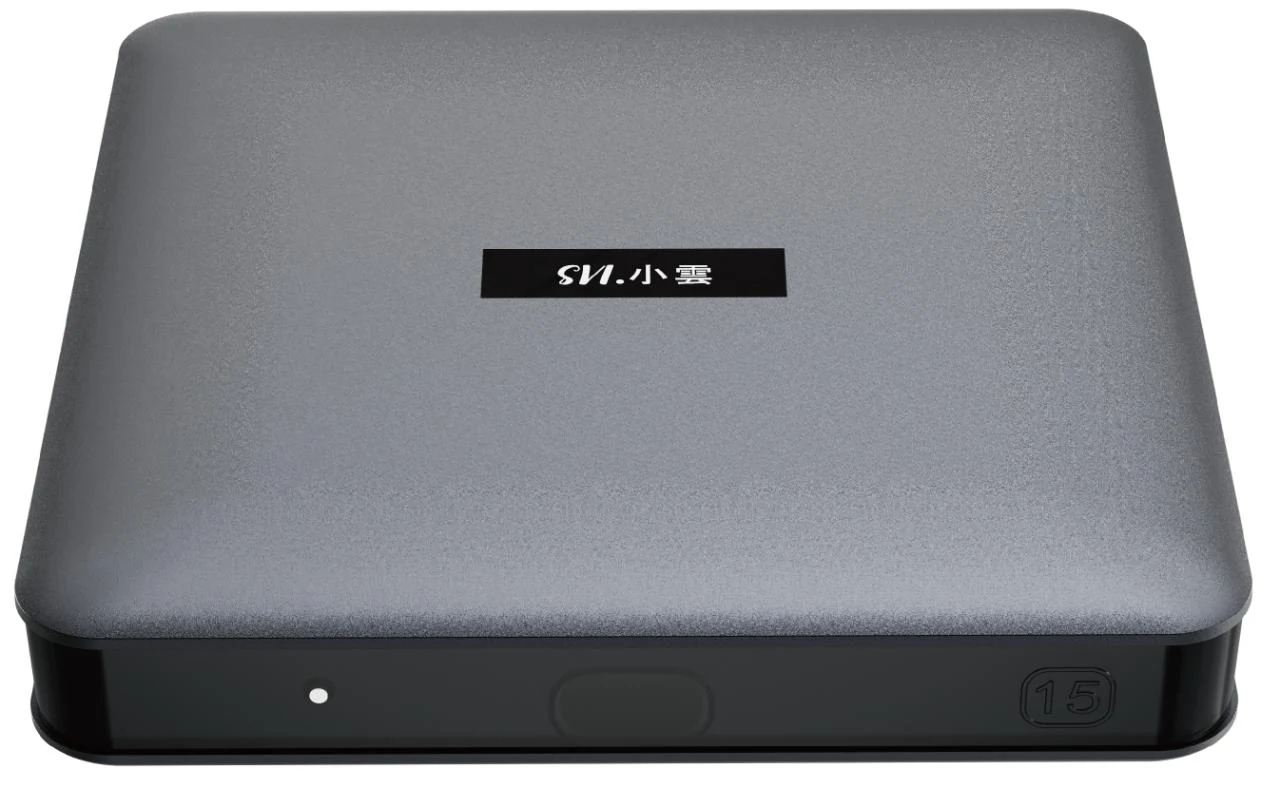
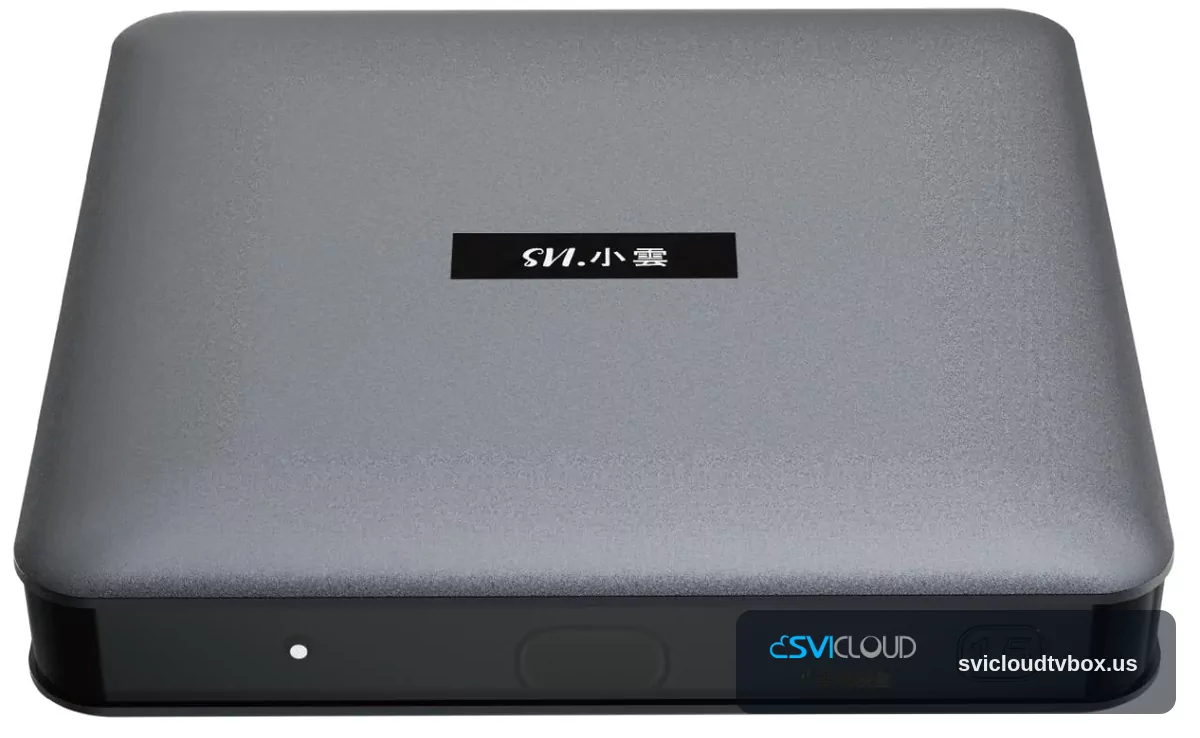
fix(theme): watermark all 15p delivery surfaces

Changed region(s): [[0.5858, 0.8103, 0.9867, 0.9661]]

diff --git a/theme/svicloudtvbox-lumen/page-compare.php b/theme/svicloudtvbox-lumen/page-compare.php
@@ -172,7 +172,7 @@ $compare_card_10p_image_html = str_replace('loading="lazy"', 'loading="eager"', 
 $compare_card_10s_image_html = str_replace('loading="lazy"', 'loading="eager"', $compare_card_10s_image_html);
 
 if ($compare_card_15p_image_html === '') {
-    $compare_card_15p_image_html = '<img src="' . esc_url(svic_theme_image_uri('/assets/images/products/svicloud-15p-front.webp')) . '" alt="' . svic_translate_attr('compare.aria.product_alt_15p') . '" loading="eager" decoding="async" />';
+    $compare_card_15p_image_html = '<img src="' . esc_url(svic_theme_image_uri('/assets/images/products/svicloud-15p-primary-ai-watermarked.webp')) . '" alt="' . svic_translate_attr('compare.aria.product_alt_15p') . '" loading="eager" decoding="async" />';
 }
 
 if ($compare_card_10p_image_html === '') {
@@ -246,7 +246,7 @@ $compare_cards = [
 
 $compare_hero_15p_image = function_exists('svic_get_product_image_meta')
     ? svic_get_product_image_meta($hero_product_15p, 0, 'large')
-    : svic_get_theme_image_meta('/assets/images/products/svicloud-15p-front.webp');
+    : svic_get_theme_image_meta('/assets/images/products/svicloud-15p-primary-ai-watermarked.webp');
 $compare_hero_10p_image = function_exists('svic_get_product_image_meta')
     ? svic_get_product_image_meta($hero_product_10p, 0, 'large')
     : svic_get_theme_image_meta('/assets/images/svicloud-hero-product.webp');
@@ -310,7 +310,7 @@ if (!empty($compare_hero_10s_background['url'])) {
         <div class="compare-hero__devices" aria-hidden="true">
           <img
             class="compare-hero__device compare-hero__device--15p"
-            src="<?php echo esc_url($compare_hero_15p_image['url'] ?? svic_theme_image_uri('/assets/images/products/svicloud-15p-front.webp')); ?>"
+            src="<?php echo esc_url($compare_hero_15p_image['url'] ?? svic_theme_image_uri('/assets/images/products/svicloud-15p-primary-ai-watermarked.webp')); ?>"
             alt=""
             loading="eager"
             decoding="async"

diff --git a/theme/svicloudtvbox-lumen/functions.php b/theme/svicloudtvbox-lumen/functions.php
@@ -11,6 +11,24 @@ if (!defined('SVIC_THEME_TEXT_DOMAIN')) {
     define('SVIC_THEME_TEXT_DOMAIN', 'svicloudtvbox-lumen');
 }
 
+if (!function_exists('svic_redirect_legacy_wp_sitemap')) {
+    function svic_redirect_legacy_wp_sitemap(): void {
+        if (!defined('RANK_MATH_VERSION')) {
+            return;
+        }
+
+        $request_path = wp_parse_url((string) ($_SERVER['REQUEST_URI'] ?? ''), PHP_URL_PATH);
+        if ($request_path !== '/wp-sitemap.xml') {
+            return;
+        }
+
+        wp_safe_redirect(home_url('/sitemap_index.xml'), 301, 'SVIC active Rank Math sitemap');
+        exit;
+    }
+
+    add_action('template_redirect', 'svic_redirect_legacy_wp_sitemap', 1);
+}
+
 /**
  * Announcement bar toggle.
  * Set to true to show the out-of-stock (or any) banner across all pages.
@@ -934,7 +952,7 @@ if (!function_exists('svic_static_page_meta_registry')) {
                     'zh' => '比較 US$288 缺貨訂購的小雲 15P（原價 US$379）與 10P+、10S 的硬體、影音支援、價格及銷售狀態。',
                     'zh-cn' => '比较 US$288 缺货订购的小云 15P（原价 US$379）与 10P+、10S 的硬件、影音支持、价格及销售状态。',
                 ],
-                'image'       => '/assets/images/products/svicloud-15p-front.webp',
+                'image'       => '/assets/images/products/svicloud-15p-primary-ai-watermarked.webp',
                 'image_alt'   => [
                     'en' => 'SVICLOUD 15P TV box front view',
                     'zh' => '小雲 15P 電視盒正面',

diff --git a/theme/svicloudtvbox-lumen/woocommerce/single-product.php b/theme/svicloudtvbox-lumen/woocommerce/single-product.php
@@ -81,7 +81,7 @@ while (have_posts()) :
     } elseif (!empty($gallery_entries)) {
         $primary_image_html = '<img class="product-hero-image" src="' . esc_url($gallery_entries[0]['full']) . '" alt="' . esc_attr(get_the_title()) . '" loading="lazy" />';
     } elseif ($is_15p_product) {
-        $primary_image_html = '<img class="product-hero-image" src="' . esc_url(svic_theme_image_uri('/assets/images/products/svicloud-15p-front.webp')) . '" alt="' . esc_attr($localized_product_title) . '" />';
+        $primary_image_html = '<img class="product-hero-image" src="' . esc_url(svic_theme_image_uri('/assets/images/products/svicloud-15p-primary-ai-watermarked.webp')) . '" alt="' . esc_attr($localized_product_title) . '" />';
     } else {
         $primary_image_html = '<img class="product-hero-image" src="' . esc_url(svic_theme_image_uri('/assets/images/svicloud-hero-product.webp')) . '" alt="' . esc_attr(get_the_title()) . '" />';
     }

diff --git a/docs/15p-source-traceability.md b/docs/15p-source-traceability.md
@@ -9,16 +9,16 @@ The 15P hardware and media content is derived from the two read-only source file
[2 lines of base64/hex data omitted]
 | Direct supplier confirmation relayed by site owner, 2026-08-17 | N/A | Confirms that the 15P includes the Kids and Karaoke apps. |
-| Site-owner commerce decision, 2026-08-17 | N/A | Sets U.S. regular price `$379.00`, sale price `$299.00`, and notified backorders; no shipping date was supplied. |
+| Site-owner commerce decision, 2026-08-17 | N/A | Sets U.S. regular price `$379.00`, sale price `$288.00`, and notified backorders; no shipping date was supplied. |
 
-Extraction used the official Anthropic `pdf` and `pptx` skills, PyMuPDF/PDFPlumber, OOXML inspection, and image hashing. The source files were not modified. The parent folder contained 89 media files (85 images and four MP4 videos), but none had an authoritative 15P identity; no image had an exact hash match with the PDF/PPTX assets. The complete parent-folder path/dimension/duration/size/hash/disposition inventory is inspectable in [`docs/15p-parent-media-inventory.md`](15p-parent-media-inventory.md), and all 27 embedded PPTX media parts—with slide mapping, hashes, content risks, and disposition—are listed in [`docs/15p-pptx-media-inventory.md`](15p-pptx-media-inventory.md). Therefore, the three claim-free 15P reference/gallery photos come from PDF page 1 and are stored under descriptive theme filenames; no parent-folder or flattened PPTX media is published. The Shop/pricing marketing creative is an AI-generated derivative grounded in the approved front and angled PDF photos, with layout inspiration from the existing 10P+ card artwork.
+Extraction used the official Anthropic `pdf` and `pptx` skills, PyMuPDF/PDFPlumber, OOXML inspection, and image hashing. The source files were not modified. The parent folder contained 89 media files (85 images and four MP4 videos), but none had an authoritative 15P identity; no image had an exact hash match with the PDF/PPTX assets. The complete parent-folder path/dimension/duration/size/hash/disposition inventory is inspectable in [`docs/15p-parent-media-inventory.md`](15p-parent-media-inventory.md), and all 27 embedded PPTX media parts—with slide mapping, hashes, content risks, and disposition—are listed in [`docs/15p-pptx-media-inventory.md`](15p-pptx-media-inventory.md). Therefore, five watermarked 15P gallery derivatives are delivered under descriptive theme filenames; no unwatermarked source image is delivered, and no unmodified flattened PPTX slide is published. The Shop/pricing marketing creative is an AI-generated derivative grounded in approved product references and carries the same watermark.
 
 ## Canonical product state
 
 - **Product:** SVICLOUD 15P TV Box / 小雲 15P 電視盒 / 小云 15P 电视盒.
 - **Slug:** `svicloud-15p`.
 - **Catalog state:** Published and catalog-visible.
-- **Commerce state:** Regular `$379.00`, sale/effective `$299.00`, managed zero stock, notified backorders allowed, and purchasable. Shipping date not announced.
+- **Commerce state:** Regular `$379.00`, sale/effective `$288.00`, managed zero stock, notified backorders allowed, and purchasable. Shipping date not announced.
 - **Claim boundary:** The PDF/PPTX do not state price, release timing, inventory, shipping, warranty, or returns. Price/backorder state is a site-owner business decision; no 15P-specific shipping-speed, delivery-date, or warranty claim is added.
 - **Primary positioning:** Android 14 TV box with Amlogic S905Y5, 4 GB DDR3 memory, 64 GB eMMC storage, dual-band Wi-Fi 6, Bluetooth 5.4, and 4K HDR/AV1 playback.
 
@@ -69,10 +69,13 @@ All output images are optimized WebP files; source PDF/PPTX files remain externa
 
 | Theme asset | Source | Purpose and alt text |
 |---|---|---|
-| `assets/images/products/svicloud-15p-marketing-v4.webp` | OpenAI Codex built-in `image_gen`, grounded by the approved PDF p.1 front/angled photos and using prior 10P+/15P artwork only as layout direction; exact prompts in `docs/15p-launch/15p-marketing-v4-prompt.md` | Homepage hero, Shop card, homepage pricing card, and Shop social metadata. Alt: `SVICLOUD 15P Android 14 feature graphic`. |
-| `assets/images/products/svicloud-15p-front.webp` | PDF p.1 embedded front product photo | WooCommerce primary image, Compare, PDP, product metadata, and identity reference for generated artwork. Alt: `SVICLOUD 15P TV box front view`. |
-| `assets/images/products/svicloud-15p-angle.webp` | PDF p.1 embedded angled product photo | PDP gallery. Alt: `SVICLOUD 15P TV box angled view showing rear ports`. |
-| `assets/images/products/svicloud-15p-package.webp` | PDF p.1 embedded package-front artwork | PDP gallery. Alt: `SVICLOUD 15P packaging front`. |
+| `assets/images/products/svicloud-15p-marketing-v4.webp` | OpenAI Codex built-in `image_gen`, grounded by approved product references; exact prompts in `docs/15p-launch/15p-marketing-v4-prompt.md` | Watermarked homepage hero, Shop card, pricing card, and social metadata. Alt: `SVICLOUD 15P Android 14 feature graphic`. |
+| `assets/images/products/svicloud-15p-primary-ai-watermarked.webp` | Supplied screenshot-derived AI primary image | Watermarked primary/front image and product metadata. Alt: `SVICLOUD 15P TV Box front view with watermark`. |
+| `assets/images/products/svicloud-15p-front.webp` | PDF p.1 embedded front product photo, watermark derivative | Watermarked fallback/identity image. Alt: `SVICLOUD 15P TV box front view`. |
+| `assets/images/products/svicloud-15p-angle.webp` | PDF p.1 embedded angled product photo, watermark derivative | Watermarked gallery/fallback image. Alt: `SVICLOUD 15P TV box angled view showing rear ports`. |
+| `assets/images/products/svicloud-15p-package.webp` | PDF p.1 embedded package-front artwork, watermark derivative | Watermarked gallery image. Alt: `SVICLOUD 15P packaging front`. |
+| `assets/images/products/svicloud-15p-lifestyle-ai-watermarked.webp` | Cropped approved AI marketing reference | Watermarked lifestyle/AI gallery image. |
+| `assets/images/products/svicloud-15p-lifestyle-ai-2-watermarked.webp` | Cropped approved AI lifestyle reference | Watermarked lifestyle/AI gallery image. |
 
 ## Localized content contract
 
@@ -83,7 +86,7 @@ All output images are optimized WebP files; source PDF/PPTX files remain externa
 - **Lead:** SVICLOUD 15P runs Android 14 on an Amlogic S905Y5 processor with 4 GB DDR3 memory, 64 GB eMMC storage, dual-band Wi-Fi 6, Bluetooth 5.4, and 4K HDR playback.
 - **Feature labels:** `Amlogic S905Y5 + Android 14`; `4 GB DDR3 + 64 GB eMMC`; `Wi-Fi 6 + Bluetooth 5.4`; `4K HDR + AV1 decoding`.
 - **CTA:** Backorder 15P
-- **Availability:** `$299.00` sale / `$379.00` regular; shipping date not announced.
+- **Availability:** `$288.00` sale / `$379.00` regular; shipping date not announced.
 
 ### Traditional Chinese
 
@@ -92,7 +95,7 @@ All output images are optimized WebP files; source PDF/PPTX files remain externa
 - **Lead:** 全新小雲 15P 搭載 Android 14、Amlogic S905Y5 處理器、4 GB DDR3 記憶體、64 GB eMMC 儲存空間、雙頻 Wi-Fi 6、藍牙 5.4 與 4K HDR 播放。
 - **Feature labels:** `Amlogic S905Y5 + Android 14`; `4 GB DDR3 + 64 GB eMMC`; `Wi-Fi 6 + 藍牙 5.4`; `4K HDR + AV1 解碼`.
 - **CTA:** 缺貨訂購 15P
-- **Availability:** 特價 `US$299` / 原價 `US$379`；出貨日期尚未公布。
+- **Availability:** 特價 `US$288` / 原價 `US$379`；出貨日期尚未公布。
 
 ### Simplified Chinese
 
@@ -101,7 +104,7 @@ All output images are optimized WebP files; source PDF/PPTX files remain externa
 - **Lead:** 全新小云 15P 搭载 Android 14、Amlogic S905Y5 处理器、4 GB DDR3 内存、64 GB eMMC 存储空间、双频 Wi-Fi 6、蓝牙 5.4 与 4K HDR 播放。
 - **Feature labels:** `Amlogic S905Y5 + Android 14`; `4 GB DDR3 + 64 GB eMMC`; `Wi-Fi 6 + 蓝牙 5.4`; `4K HDR + AV1 解码`.
 - **CTA:** 缺货订购 15P
-- **Availability:** 特价 `US$299` / 原价 `US$379`；发货日期尚未公布。
+- **Availability:** 特价 `US$288` / 原价 `US$379`；发货日期尚未公布。
 
 ## Rendered-copy map
 
@@ -120,7 +123,7 @@ Labels such as `Confirmed platform`, `Core specifications`, and `At a glance` or
 
 ## Implementation guardrails
 
-1. A local fixture refresh must recreate the supplemental 15P product with regular `379`, sale/effective `299`, managed quantity `0`, backorders `notify`, stock status `onbackorder`, and three source/gallery images.
+1. A local fixture refresh must recreate the supplemental 15P product with regular `379`, sale/effective `288`, managed quantity `0`, backorders `notify`, stock status `onbackorder`, and five watermarked source/gallery images.
 2. Homepage, Shop, Compare, PDP, cart/checkout, metadata, and Product/Offer JSON-LD must agree on the price and BackOrder state.
 3. Normal checkout/payment/shipping-rate/cancellation/return behavior applies, but no 15P-specific shipping speed, dispatch date, delivery date, or warranty promise may be added.
 4. “Coming Soon” remains only inside approved v4 artwork; surrounding UI uses localized Backorder action/status/date-disclaimer copy.

diff --git a/docs/15p-launch/production-gallery-price-update-evidence.md b/docs/15p-launch/production-gallery-price-update-evidence.md
@@ -1,0 +1,41 @@
+# Production 15P gallery and pricing update evidence
+
+Status: corrected retry deployed after the explicit approval below.
+
+## Approval checkpoint
+
+User approval recorded in the goal session:
+
+> I approve the production gallery and $288 pricing update.
+
+The approval covered the five-image watermarked gallery, screenshot-derived AI primary image, `$379` regular / `$288` sale pricing, production verification, and rollback on critical failure.
+
+## Release history
+
+- Preflight commit: `51fb067a11ca455856e674d8cb39fdf9d3757007`
+- Corrected theme commit: `afa372c85d73eb7463dc2eb2b446e4f76e09407f`
+- Final repository commit: `ea3d5b7da51d4aae1a2fb354809e3ba94a6bf0ca`
+- Initial retry failed the social-image gate; product/media/theme rollback completed. Evidence: external Pi backup `rollback-evidence.md`.
+- Corrected retry added explicit 15P social-image metadata and deployed the fully watermarked fallback assets.
+
+## Live state
+
+- Product ID: `1204`, slug `svicloud-15p`
+- State: published, visible, purchasable, regular `$379`, sale/effective `$288`, managed stock `0`, `notify`, `onbackorder`
+- Gallery IDs: `1210`, `1211`, `1212`, `1213`, `1214`
+- Gallery order: screenshot-derived AI primary, angle/rear ports, packaging, AI lifestyle, second AI lifestyle
+- All five production image response bodies match committed local watermarked WebP hashes.
+- Theme remote verification: `212/212` files match.
+
+## Verification
+
+- Production critical localized flows: Chromium/WebKit × Traditional Chinese/Simplified Chinese, 4/4 passed.
+- Production English flows: Chromium/WebKit PDP → add-to-cart → cart → checkout, 2/2 passed.
+- Storefront audit: 36/36 route/viewport checks passed.
+- SEO audit: 24 pages, 77 internal links, 0 issues.
+- Product schema: one `$288.00 USD` BackOrder offer, no delivery-time promise.
+- Social metadata: one unique `og:image` and one unique `twitter:image`, both watermarked primary image.
+- Active sitemap: `/sitemap_index.xml` and all four children HTTP 200; `/wp-sitemap.xml` resolves to the active Rank Math sitemap rather than the homepage.
+- No production offline-verifier orders/customers; no unrelated/private data or infrastructure writes.
+
+The pre-update DB/uploads/remote-theme backups and rollback procedure remain external and hash-verified. No DB/uploads restoration was performed.

diff --git a/docs/15p-pptx-media-inventory.md b/docs/15p-pptx-media-inventory.md
@@ -1,11 +1,11 @@
 # 15P PPTX embedded-media inventory
 
-Inventory of every media part embedded in the read-only `15P PDF.pptx`. Dimensions, sizes, hashes, and slide relationships were extracted from OOXML without modifying the deck. All 27 parts are flattened marketing slides and are excluded from storefront media; only claim-free PDF page-1 photos are shipped.
+Inventory of every media part embedded in the read-only `15P PDF.pptx`. Dimensions, sizes, hashes, and slide relationships were extracted from OOXML without modifying the deck. All 27 original parts remain excluded from storefront media. One background-only crop derived from slide 2 is used as a watermarked lifestyle derivative after embedded marketing copy was removed; no unmodified flattened slide is shipped.
 
 | Embedded path | Slide | Dimensions | Size | SHA-256 | Content / disposition |
 |---|---:|---:|---:|---|---|
[6 lines of base64/hex data omitted]

diff --git a/docs/15p-launch/launch-plan-coverage.md b/docs/15p-launch/launch-plan-coverage.md
@@ -6,7 +6,7 @@
 | Approved commerce decision | `$379` regular / `$288` sale, notified backorders, and no shipping date recorded in source traceability and RPI spec |
 | Existing source-folder media inventory | `docs/15p-parent-media-inventory.md` (85 images + 4 videos, each with disposition) |
 | Embedded PPTX media inventory | `docs/15p-pptx-media-inventory.md` (27 rows, all excluded with reasons) |
-| Optimized assets | Three PDF-derived source/gallery files plus approved v4 marketing artwork under `assets/images/products/` |
+| Optimized assets | Five watermarked gallery derivatives plus watermarked v4 marketing artwork under `assets/images/products/` |
 | Repeatable local product | `scripts/import_public_theme_fixture.php`; exact post-apply invariant in `scripts/sync_public_theme_fixture.py` |
 | Private local content preservation | `scripts/verify_private_fixture_preservation.py` plus verified external recovery point |
 | Homepage / Shop / Compare / PDP | Theme templates and EN/繁/简 locale registries |
@@ -19,4 +19,4 @@
 
 ## Deliberately excluded
 
-Production writes/deployment, Search Console submission, a release or shipping date, 15P-specific shipping-speed/dispatch/delivery/warranty promises, unsupported performance comparisons, and paid-ad activation remain outside this local integration.
+Search Console submission, a release or shipping date, 15P-specific shipping-speed/dispatch/delivery/warranty promises, unsupported performance comparisons, and paid-ad activation remain outside this integration. Production deployment and rollback evidence are recorded in `docs/15p-launch/production-gallery-price-update-evidence.md`.

diff --git a/docs/15p-launch/launch-checklist.md b/docs/15p-launch/launch-checklist.md
@@ -4,9 +4,9 @@
 
 - [x] Supplier PDF/PPTX hashed and parsed read-only
 - [x] Source traceability plus 89-file parent-media inventory (85 images + 4 videos) recorded
-- [x] Three claim-free PDF-derived WebP assets tracked; source PDF/PPTX and flattened marketing slides excluded
+- [x] Five watermarked 15P WebP gallery derivatives tracked; source PDF/PPTX and unwatermarked originals are not delivered
 - [x] Direct supplier confirmation for included Kids and Karaoke apps recorded
-- [x] Approved v4 marketing artwork tracked with exact prompt and safe framing
+- [x] Approved v4 marketing artwork tracked with exact prompt, safe framing, and SVICLOUD + svicloudtvbox.us watermark
 
 ## Commerce activation
 
@@ -22,6 +22,6 @@
 - [x] Private-data preservation passes around the full refresh
 - [x] Final SEO, accessibility, smoke, and visual audits pass with only documented pre-existing failures
 - [x] Post-implementation review has no blocking finding
-- [ ] Approved local commits created; no push/deployment
+- [x] Approved commit history, safety branches, production approval, deployment, rollback, and final evidence recorded; `origin/main` unchanged
 
 Normal checkout/payment/shipping-rate/cancellation/return behavior applies. Do not add a 15P-specific shipping speed, dispatch date, delivery date, or warranty promise without written confirmation and a plan update.

diff --git a/docs/15p-launch/verification-report.md b/docs/15p-launch/verification-report.md
@@ -1,6 +1,6 @@
 # SVICLOUD 15P backorder verification report
 
-Verified against `http://svicloud10p.svic.local` after a complete production-derived public-fixture refresh plus the deterministic local 15P supplement.
+Verified against `http://svicloud10p.svic.local` after a complete production-derived public-fixture refresh plus the deterministic local 15P supplement. Corrected production deployment evidence is recorded in `production-gallery-price-update-evidence.md`.
 
 ## Product invariant
 
@@ -10,7 +10,7 @@ Verified against `http://svicloud10p.svic.local` after a complete production-der
 - Managed stock: enabled, quantity `0`
 - Backorders: `notify`; stock status `onbackorder`
 - Purchasable / on backorder / notification required: `true / true / true`
-- Product images: one primary plus two gallery images; approved v4 marketing artwork remains separate for homepage/Shop cards
+- Product images: exactly five delivered gallery images; primary/front, angle/rear ports, packaging, and two watermarked lifestyle/AI images. Homepage/Shop/metadata artwork is also watermarked.
 - `/product/svicloud-15p/`: HTTP 200 in EN/繁中/简中
 - Product schema: exactly one Product and one `288.00 USD` Offer with `https://schema.org/BackOrder`
 - Offer delivery timing: absent
